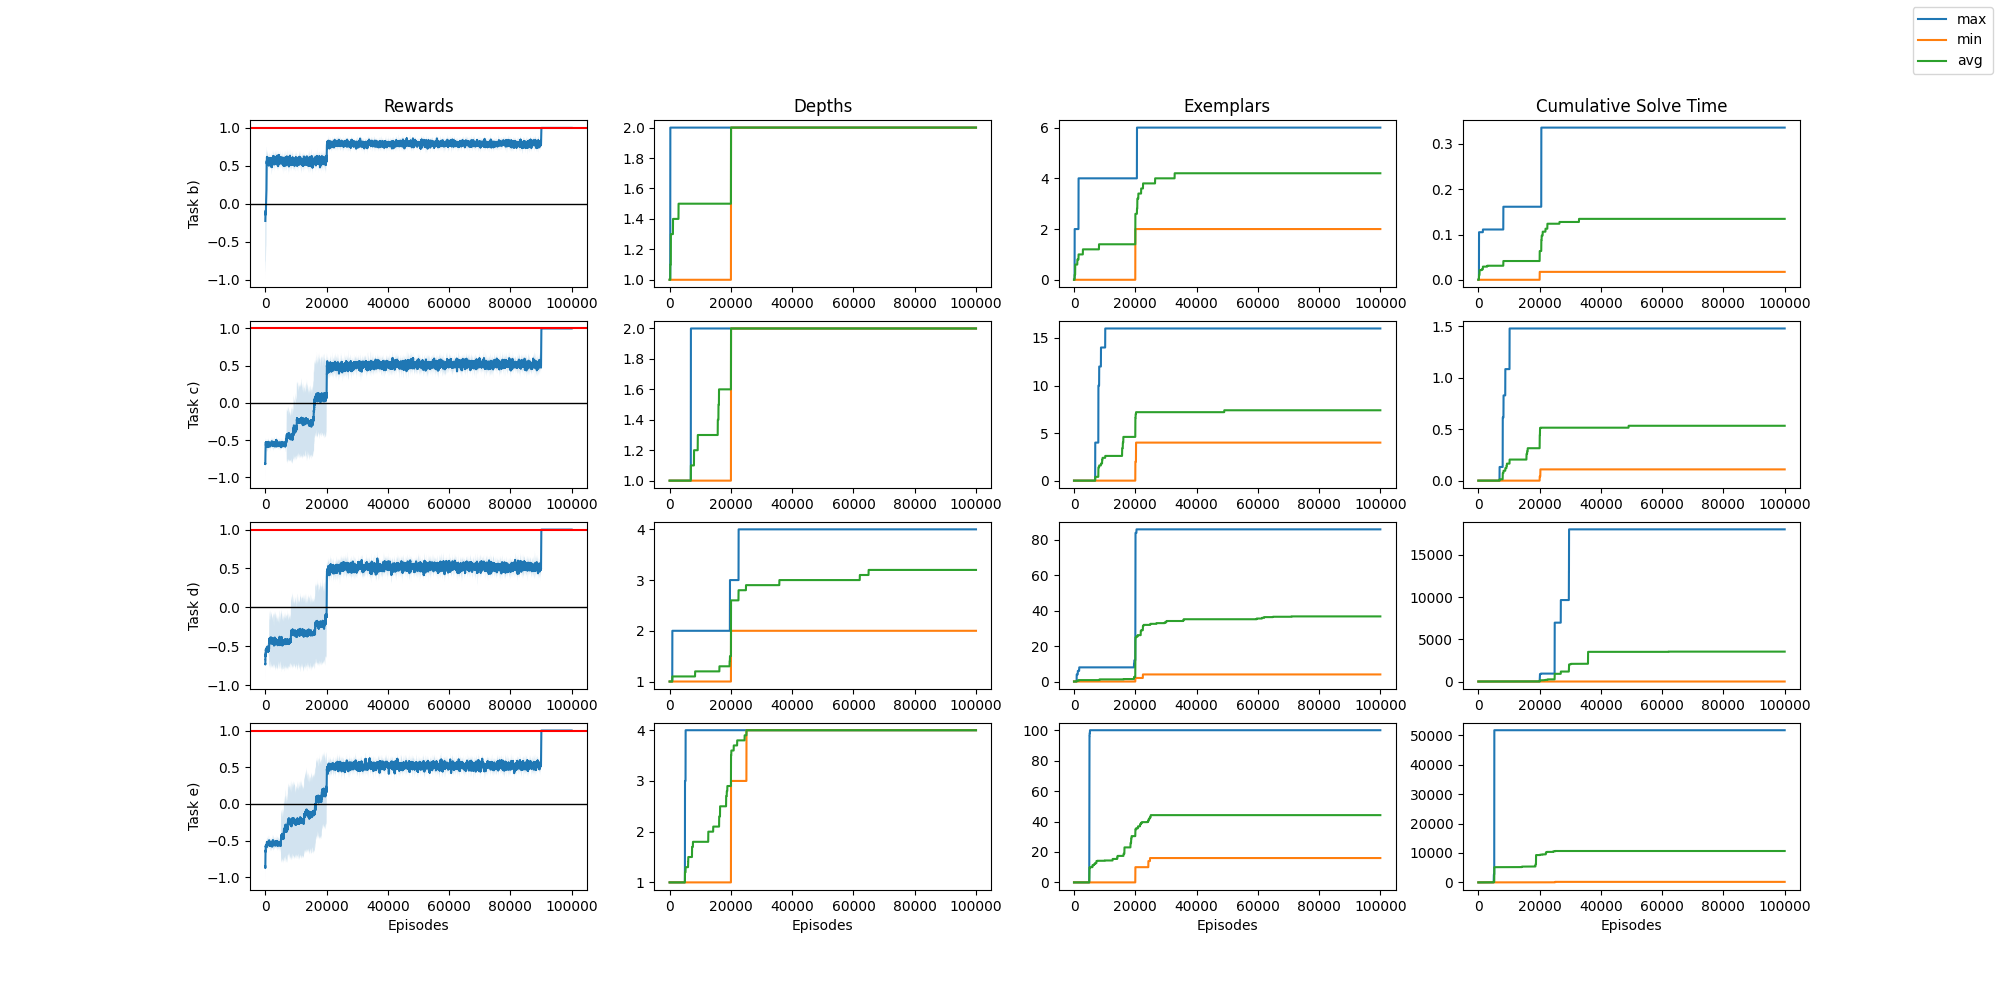
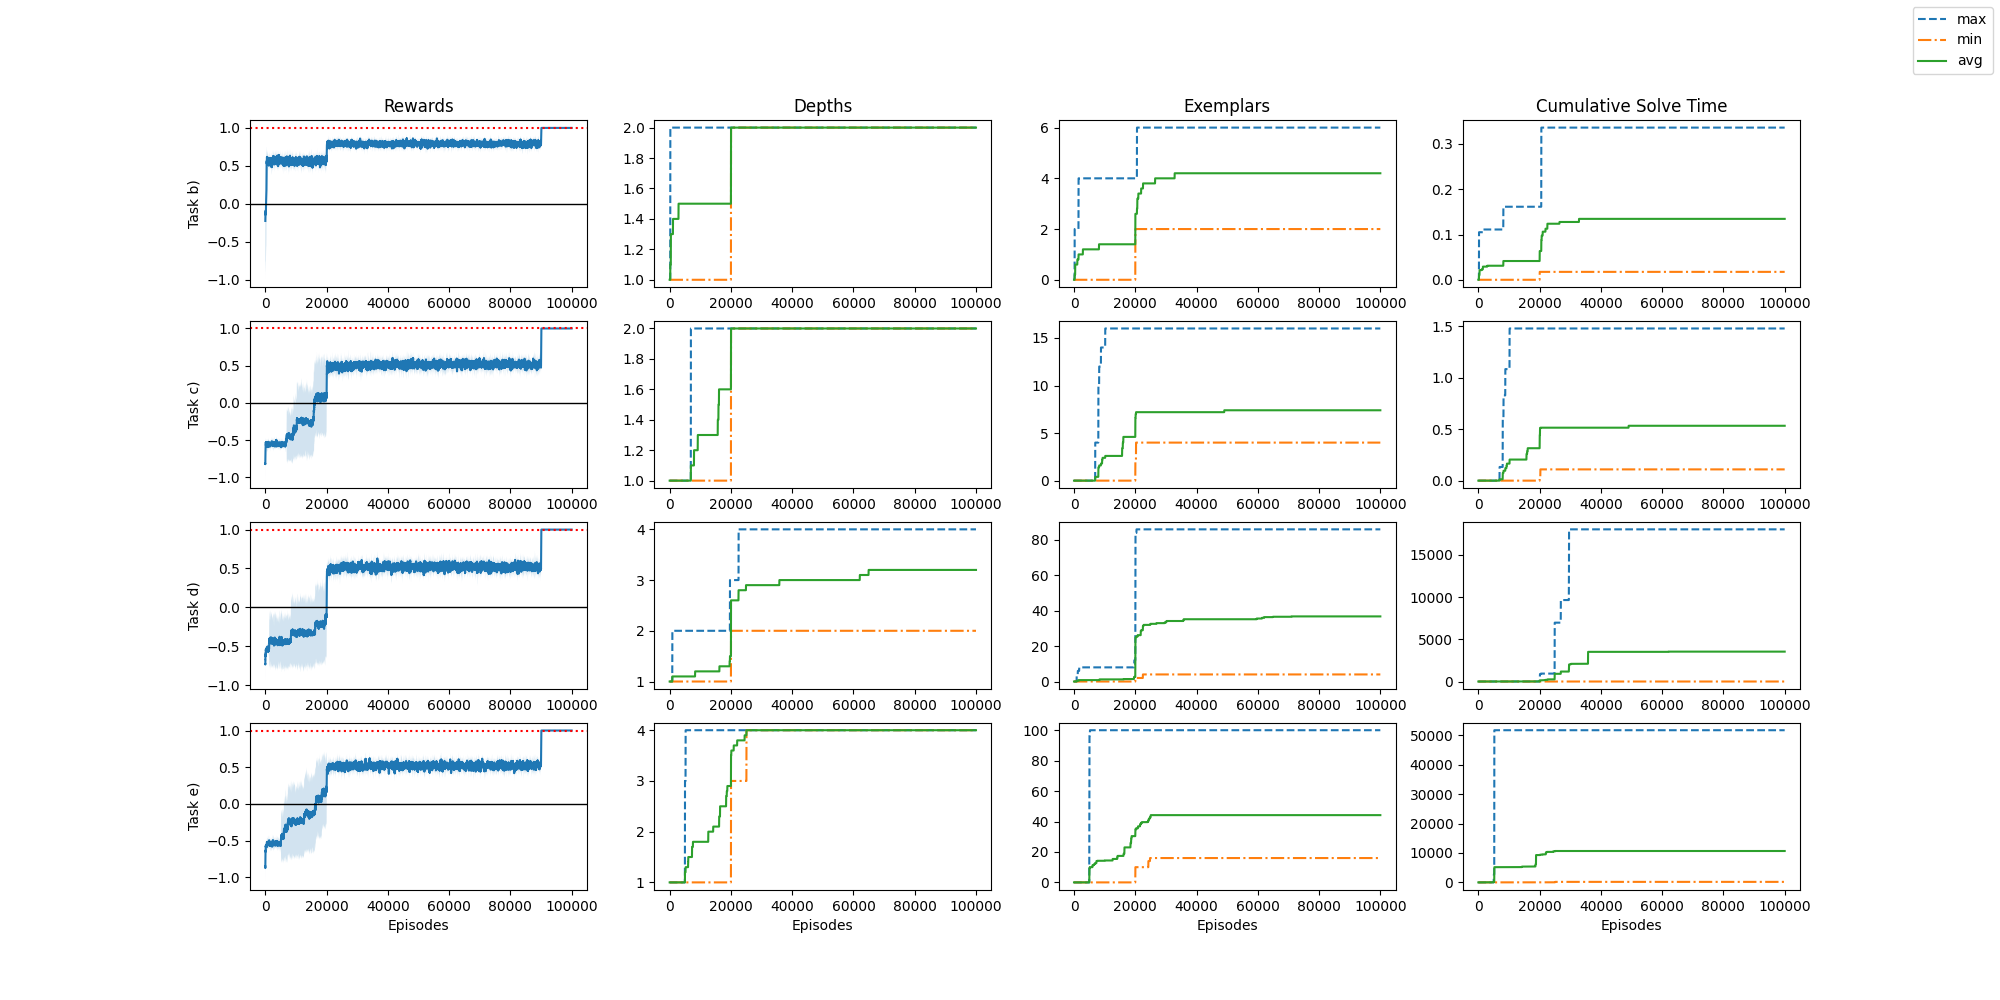
updated figure creation and uploading new figures

diff --git a/toy_problems/make_exp1_figure.py b/toy_problems/make_exp1_figure.py
@@ -52,31 +52,31 @@ for i, d in enumerate(data):
     reward_devs = np.std(rewards_i, axis=0)
     axes[i,0].plot(episodes, reward_means)
     axes[i,0].fill_between(episodes, reward_means-reward_devs, reward_means+reward_devs, alpha=0.2)
-    axes[i,0].axhline(y=1, color='red', linestyle='-', linewidth=1.5, label='optimal')
+    axes[i,0].axhline(y=1, color='red', linestyle='dotted', linewidth=1.5, label='optimal')
     axes[i,0].axhline(y=0, color='black', linestyle='-', linewidth=1)
 
     # plot depths
     depths_maxs = np.max(depths_i, axis=0)
     depths_mins = np.min(depths_i, axis=0)
     depths_means = np.mean(depths_i, axis=0)
-    axes[i,1].plot(episodes, depths_maxs, label='max')
-    axes[i,1].plot(episodes, depths_mins, label='min')
+    axes[i,1].plot(episodes, depths_maxs, label='max', linestyle = 'dashed')
+    axes[i,1].plot(episodes, depths_mins, label='min', linestyle = 'dashdot')
     axes[i,1].plot(episodes, depths_means, label='avg')
 
     # plot exemplars
     exemplar_maxs = np.max(exemplars_i, axis=0)
     exemplar_mins = np.min(exemplars_i, axis=0)
     exemplar_means = np.mean(exemplars_i, axis=0)
-    axes[i,2].plot(episodes, exemplar_maxs, label='max')
-    axes[i,2].plot(episodes, exemplar_mins, label='min')
+    axes[i,2].plot(episodes, exemplar_maxs, label='max', linestyle = 'dashed')
+    axes[i,2].plot(episodes, exemplar_mins, label='min', linestyle = 'dashdot')
     axes[i,2].plot(episodes, exemplar_means, label='avg')
 
     # plot solve_times
     solve_times_maxs = np.max(solve_times_i, axis=0)
     solve_times_mins = np.min(solve_times_i, axis=0)
     solve_times_means = np.mean(solve_times_i, axis=0)
-    axes[i,3].plot(episodes, solve_times_maxs, label='max')
-    axes[i,3].plot(episodes, solve_times_mins, label='min')
+    axes[i,3].plot(episodes, solve_times_maxs, label='max', linestyle = 'dashed')
+    axes[i,3].plot(episodes, solve_times_mins, label='min', linestyle = 'dashdot')
     axes[i,3].plot(episodes, solve_times_means, label='avg')
 
 axes[0, 0].set_ylabel('Task b)')

diff --git a/toy_problems/make_exp2_figure.py b/toy_problems/make_exp2_figure.py
@@ -55,25 +55,25 @@ for i, r in enumerate(rewards):
     # dqn w/o abs
     dqn_no_abs_i_means = np.mean(dqn_no_abs_i, axis=0)
     dqn_no_abs_i_stds = np.std(dqn_no_abs_i, axis=0)
-    axes[i].plot(episodes, dqn_no_abs_i_means, label='dqn_w/o_abs')
+    axes[i].plot(episodes, dqn_no_abs_i_means, label='dqn_w/o_abs', marker = 'o', markevery = 2500, markersize = 8)
     axes[i].fill_between(episodes, dqn_no_abs_i_means-dqn_no_abs_i_stds, dqn_no_abs_i_means+dqn_no_abs_i_stds, alpha=0.2)
 
     # rdqn
     rdqn_i_means = np.mean(rdqn_i, axis=0)
     rdqn_i_stds = np.std(rdqn_i, axis=0)
-    axes[i].plot(episodes, rdqn_i_means, label='rdqn')
+    axes[i].plot(episodes, rdqn_i_means, label='rdqn', marker = '^', markevery = 2500, markersize = 8)
     axes[i].fill_between(episodes, rdqn_i_means-rdqn_i_stds, rdqn_i_means+rdqn_i_stds, alpha=0.2)
 
     # grudqn
     grudqn_i_means = np.mean(grudqn_i, axis=0)
     grudqn_i_stds = np.std(grudqn_i, axis=0)
-    axes[i].plot(episodes, grudqn_i_means, label='grudqn')
+    axes[i].plot(episodes, grudqn_i_means, label='grudqn', marker = 's', markevery = 2500, markersize = 8)
     axes[i].fill_between(episodes, grudqn_i_means-grudqn_i_stds, grudqn_i_means+grudqn_i_stds, alpha=0.2)
 
     # lstmdqn
     lstmdqn_i_means = np.mean(lstmdqn_i, axis=0)
     lstmdqn_i_stds = np.std(lstmdqn_i, axis=0)
-    axes[i].plot(episodes, lstmdqn_i_means, label='lstmdqn')
+    axes[i].plot(episodes, lstmdqn_i_means, label='lstmdqn', marker = 'D', markevery = 2500, markersize = 8)
     axes[i].fill_between(episodes, lstmdqn_i_means-lstmdqn_i_stds, lstmdqn_i_means+lstmdqn_i_stds, alpha=0.2)
 
 axes[0].set_ylabel('Task b)')
